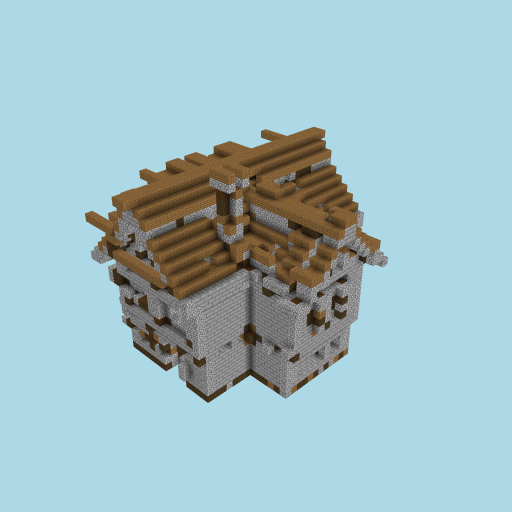
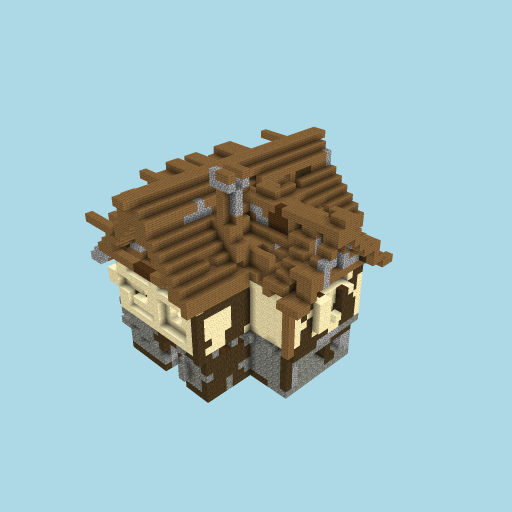
feat(E-24 T-089-01): refreshed triptychs on the durable skins + before/after frames
resemblance SUBJECTS re-pointed: cottage + gatehouse now gate the durable-skin
pipeline output (and --offline replays the refreshed fixed-lens render, retiring
the pre-lens-fix pointers). Live judge verdicts: both 'drifted' with named gaps
(cottage material-zoning@roof, gatehouse form@walls/roofline) — honest evidence,
the durable rule is about reproducibility, not a resemblance jump. Frames:
durable-{cottage,gatehouse}-{before,after,strip}.png (splat-only vs final,
oblique 225° + concept|splat-only|final strips).

Changed region(s): [[0.1875, 0.3125, 0.7812, 0.7812], [0.5938, 0.2812, 0.6562, 0.3438]]

diff --git a/benchmarks/sculpture/resemblance/cottage-resemblance.md b/benchmarks/sculpture/resemblance/cottage-resemblance.md
@@ -7,23 +7,23 @@ inspects** (Rule 2); the perceptual numbers below only EXPLAIN it.
 
 ![triptych](cottage-triptych.png)  `benchmarks/sculpture/resemblance/cottage-triptych.png`
 
-## Categorical judge (metered)
+## Categorical judge — _offline: not run_
 
-- **verdict:** `drifted`
-- **named gap (Rule 7):** **material zoning** — _upper-story walls below the roof_
-- **rationale:** The lower stone base and brown plank roof read as the same cottage, but the concept's distinctive cream half-timbered upper story is rendered as gray stone, collapsing the two-tone wall zoning into a single stone mass.
+- **verdict:** `(not run)`
+- **named gap (Rule 7):** _(none)_
+- **rationale:** offline: metered judge not called
 
 ## Perceptual diagnostics (Rule 2 — NOT the verdict)
 
 | axis | value | reads against |
 | ---- | ----- | ------------- |
-| form IoU (vs mesh) | 0.929 | the 3-D form reference |
-| form IoU (vs concept) | 0.63 | the concept (approx. 3/4 view) |
-| material set agreement | 0.667 | same materials at all? (0..1) |
-| material zone agreement | 0.321 | materials in the same places? (0..1) |
-| mean zone ΔE | 36.43 | per-cell Lab drift (lower better) |
+| form IoU (vs mesh) | 0.928 | the 3-D form reference |
+| form IoU (vs concept) | 0.629 | the concept (approx. 3/4 view) |
+| material set agreement | 0.5 | same materials at all? (0..1) |
+| material zone agreement | 0.418 | materials in the same places? (0..1) |
+| mean zone ΔE | 35.23 | per-cell Lab drift (lower better) |
 
-Build dominant blocks: stone_bricks×3933, spruce_planks×1073, dark_oak_log×785, cobblestone×608, dark_oak_planks×22, white_terracotta×8.
+Build dominant blocks: tuff×4265, spruce_planks×2333, sandstone×1385, dark_oak_log×1007, cobblestone×652, dark_oak_planks×65.
 Concept snapped blocks: gray_terracotta, cartography_table, polished_diorite, white_stained_glass, crafting_table, white_stained_glass.
 
 > Honesty: concept is an APPROXIMATE 3/4 view (camera mismatch depresses IoU/zone ΔE); zoning is read

diff --git a/benchmarks/sculpture/resemblance/gatehouse-resemblance.md b/benchmarks/sculpture/resemblance/gatehouse-resemblance.md
@@ -7,23 +7,23 @@ inspects** (Rule 2); the perceptual numbers below only EXPLAIN it.
 
 ![triptych](gatehouse-triptych.png)  `benchmarks/sculpture/resemblance/gatehouse-triptych.png`
 
-## Categorical judge (metered)
+## Categorical judge — _offline: not run_
 
-- **verdict:** `drifted`
-- **named gap (Rule 7):** **form** — _upper roof and gable_
-- **rationale:** The lower stone walls and warm arched door read as the same gatehouse, but the upper region lacks a clean pitched roof and dissolves into a noisy lighter mass.
+- **verdict:** `(not run)`
+- **named gap (Rule 7):** _(none)_
+- **rationale:** offline: metered judge not called
 
 ## Perceptual diagnostics (Rule 2 — NOT the verdict)
 
 | axis | value | reads against |
 | ---- | ----- | ------------- |
-| form IoU (vs mesh) | 0.929 | the 3-D form reference |
-| form IoU (vs concept) | 0.611 | the concept (approx. 3/4 view) |
+| form IoU (vs mesh) | 0.916 | the 3-D form reference |
+| form IoU (vs concept) | 0.609 | the concept (approx. 3/4 view) |
 | material set agreement | 0.75 | same materials at all? (0..1) |
-| material zone agreement | 0.304 | materials in the same places? (0..1) |
-| mean zone ΔE | 39.27 | per-cell Lab drift (lower better) |
+| material zone agreement | 0.382 | materials in the same places? (0..1) |
+| mean zone ΔE | 40.13 | per-cell Lab drift (lower better) |
 
-Build dominant blocks: stone_bricks×33158, deepslate_tiles×18261, cobblestone×3789, dark_oak_log×1994.
+Build dominant blocks: polished_basalt×5945, deepslate_tiles×3041, cobblestone×1157, dark_oak_planks×409, dark_oak_log×46.
 Concept snapped blocks: gilded_blackstone, deepslate_bricks, deepslate_copper_ore, iron_block, white_stained_glass, white_stained_glass.
 
 > Honesty: concept is an APPROXIMATE 3/4 view (camera mismatch depresses IoU/zone ΔE); zoning is read
